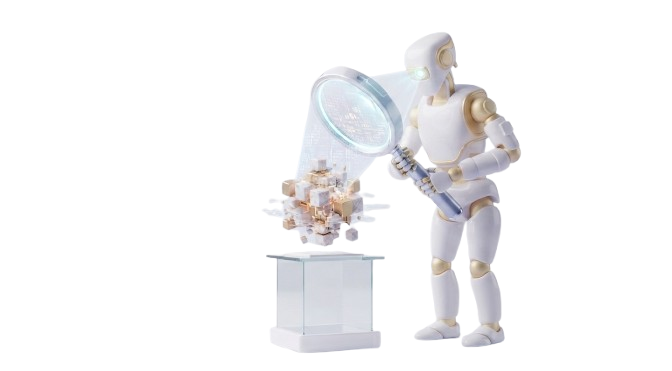
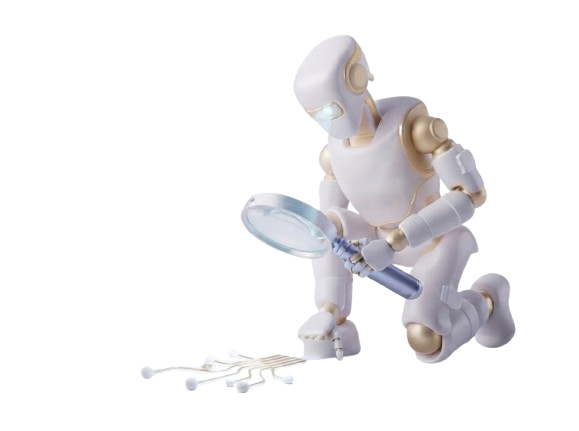
이상거래 조사 히어로 이미지 교체
무릎 굽혀 돋보기로 흔적을 보는 그림으로 바꾼다. 그림 비율이 2번과 거의 같아
(1.04 대 1.05) 1번에만 주던 예외 두 개(contentHeight 330 · contentRight 285)를
지우고 기본 규칙으로 되돌린다 — 기본값만으로 그림 크기 312x299, 오른쪽 끝
284px 가 되어 2번(313x297 · 285px)과 맞는다.

예외 필드는 표에서 사라졌지만 다음 교체 때 다시 필요할 수 있어 타입으로 남긴다.

Changed region(s): [[0.2487, 0.0593, 0.9016, 0.9488]]

diff --git a/web/components/home/HeroCarousel.tsx b/web/components/home/HeroCarousel.tsx
@@ -130,13 +130,19 @@ const CONTENT_CENTER_RIGHT = 441
  *
  * <p><b>이미지를 갈아 끼우면 여기 숫자도 다시 재야 한다</b>(불투명 영역 bbox).
  */
-const HERO_IMAGE_SOURCES = [
-  // 1번은 인물이 세로로 선 좁은 구도라, 기본 세로(295)로 맞추면 옆 슬라이드보다
-  // 눈에 띄게 작아 보인다. 조금 키우고, 그림 오른쪽 끝을 2번과 같은 선에 세운다.
-  {
-    canvas: { w: 672, h: 371 }, content: { left: 261, right: 522, top: 31, bottom: 354 },
-    contentHeight: 330, contentRight: 285,
-  },
+interface HeroImageSource {
+  /** PNG 원본 크기 */
+  canvas: { w: number; h: number }
+  /** 그 안에서 그림(불투명 영역)이 차지하는 사각형 */
+  content: { left: number; right: number; top: number; bottom: number }
+  /** 그림 세로를 기본값(CONTENT_HEIGHT) 대신 따로 줄 때 */
+  contentHeight?: number
+  /** 가로를 중심(CONTENT_CENTER_RIGHT) 대신 그림 오른쪽 끝으로 맞출 때 */
+  contentRight?: number
+}
+
+const HERO_IMAGE_SOURCES: HeroImageSource[] = [
+  { canvas: { w: 579, h: 431 }, content: { left: 140, right: 516, top: 34, bottom: 394 } },
   { canvas: { w: 621, h: 402 }, content: { left: 150, right: 482, top: 43, bottom: 359 } },
   // 3번은 그림이 캔버스를 가로로 꽉 채운 구도라 중심을 맞추면 왼쪽 끝이 텍스트를
   // 덮는다. 오른쪽 끝을 사이드바(고정 80px 폭) 앞에 세우는 편이 맞다.
